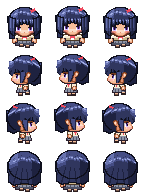
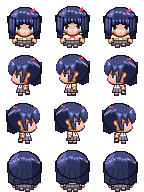
ちびキャラ：横向きの前髪を手本の作りに合わせる（前の縁、3本の束、束の間の肌、境目の線、光）
Claude-Session: https://claude.ai/code/session_017gxvkc2TW4xYgG5MuSL3N1

diff --git a/files.js b/files.js
@@ -2,7 +2,7 @@
 // マップなどを足したら scripts に1行足す（順番どおりに読み込む。main.js は最後）。
 // 版の番号 v は tools/stamp.py が書き換える。
 window.FILES = {
-  v: '20261127050834',
+  v: '20261127051514',
   scripts: [
     'engine/core.js',
     'engine/world.js',

diff --git a/tools/sprites/make_chibi.py b/tools/sprites/make_chibi.py
@@ -538,6 +538,46 @@ EAR_SIDE_GIRL = (-4, 23, [
 ])
 
 
+# 横向きの前髪（x −16〜+3、10〜26行）：手本を1ドットずつ測った作り。
+# H 光／L 明／M 中／D 暗（前の縁もこの色）／E 束の境目と毛先の線／1〜4 束の間からのぞく肌／_ 透明／. そのまま（目・耳）
+BANGS_SIDE = (-16, 10, [
+    '____DMMMMMMMMMMMMMMM',
+    '___DMLMMMMMMMMMMMMMM',
+    '__DMLMMMMMMMMMMMMMMM',
+    '__DMHLMMMMMMMMMMMMMM',
+    '_DMLHHMMMMMMMMMMMMMM',
+    '_DMLHHLMMMMMMMMMMMML',
+    'DMMMLLMDMLMMMMMMLLLM',
+    'DMMMLMMDMLLLLMLHHHLM',
+    'DMMMLMDDELHHMDMLHLMD',
+    'DMMMMMDDEMLLMEMLLMMD',
+    'DMMDMMDEEMMMDEDMLMME',
+    'EMMDMDE4EMMDE4EMMMDE',
+    'EDMDDDE3EDDE43EMMMDE',
+    '_EMDDE43EEE333EMMD..',
+    '_EDDDE3.....33EMDD.4',
+    '__EDE32......3EDD..3',
+    '___EE223....43EDD.43',
+])
+
+
+def bangs_side(im, c):
+    x0, y0, rows = BANGS_SIDE
+    if c['girl']:
+        t = [rgb(h) for h in HAIR_TONES]
+    else:
+        t = [rgb('#7d8396'), tuple(c['hairL'][:3]), tuple(c['hair1'][:3]), rgb('#2a2c36'), tuple(c['hair2'][:3])]
+    pal = {'H': t[0], 'L': t[1], 'M': t[2], 'D': t[3], 'E': t[4],
+           '1': c['skin1'], '2': c['skin2'], '3': c['skinS'], '4': c['handO']}
+    px = im.load()
+    for j, row in enumerate(rows):
+        for i, ch in enumerate(row):
+            X, Y = CX + x0 + i, y0 + j
+            if ch == '.':
+                continue
+            px[X, Y] = (0, 0, 0, 0) if ch == '_' else tuple(pal[ch][:3]) + (255,)
+
+
 def ear_side(im, c):
     girl = c['girl']
     x0, y0, rows = EAR_SIDE_GIRL if girl else EAR_SIDE_BOY
@@ -577,6 +617,7 @@ def frame(ch, d, step):
         hair_shade(up.im, c, side)
     if side == 'left' and Art is Pixel:
         ear_side(up.im, c)
+        bangs_side(up.im, c)
     im = a.im
     bob = 0 if step == 1 else (1 if Art is Pixel else round(0.6 * SS))
     im.alpha_composite(up.im, (0, bob))

diff --git a/CLAUDE.md b/CLAUDE.md
@@ -10,7 +10,7 @@
 - 校舎（廊下8枚と部屋の型）は `tools/gen_school.py` で生成する。生成した `data/maps/school_*.js` は直接直さず、スクリプトを直して作り直す。お話のイベントは `data/story.js` に `G.addEvents` で足す（`at: '扉の名前'` で位置を決められる）。見取り図の施設名のうち学校が特定されそうな名前は一般的な名前に変える
 - 参考にした市販ゲームのファイル（データ・画像・音・シナリオ）はこのリポジトリに入れない
 - タイル素材（ドット絵世界）は二次配布禁止。元のPNGは入れず、`tools/encode_tileset.py` で変換した `data/tilesets/*.js` だけを入れる。タイトル画面の著作権表示（system.js の credits）は消さない
-- キャラの歩行グラフィックは、いまはちびキャラ（手本：RPGツクールMVの標準キャラの比率、約1.5頭身、1コマ48×48px）。`tools/sprites/make_chibi.py` で描き、`img/chars/haru_chibi.png`・`img/chars/yui_chibi.png` に書き出す。塗りは手本と同じくっきりしたドット絵（48×48pxに直接描く。ベタ塗り、段をつけた影と光、部品ごとに1ドットの濃い輪郭、目は1ドットずつ形を決め、白い光はほぼ使わず外側の白目と上が濃い瞳で表す。髪のかたまりは小さめで額は高め、前髪には毛束の明るい筋を1本おきに入れて凹凸を出す。女子の髪は5段（光・明・中・暗・影）で束ごとに塗り分ける（make_chibi.py の hair_shade。頭頂はつむじから放射状の束で境目に暗い線、頭の丸みに沿って束ごとに上下へずれたギザギザの天使の輪（束の真ん中だけ光の色）、前髪は束ごとに上が明るく下ほど暗く真ん中に光の筋、横・後ろの髪は縦の束で左が明るく右と下が暗い。髪型が手本と違うので、ここは手本を写さず工夫したもの）。胴は肩が細く裾へ広がる八の字で、腕も外へ開く。前髪の毛先は目の上端に接するまで下ろし、真ん中の毛束だけ短くしてそのすき間から額をのぞかせる。前髪のすぐ下の肌には影（1段目は影色、2段目は中間色）。顔の横の髪で、目の外側の端からあごの近くまで顔を縁取る（男子は細く短め）。肌は桃色がかった色（白っぽくしない）。顔は上下と左右に4段（明・中間・影・濃い影）の明暗をドット単位でつけて立体感を出す（前髪の下は中間色→目の下から頬の段がいちばん明るい→その下は中間色→あごの段は影色。左右の端は内側へ濃い影→影→中間色、頬の段は影を1段多く）。目はまるごと見せる。やや上から見下ろしつつ足先まで全身を見せる（胴→スカート／ズボン→脚1ドット（女子は肌色）→靴2ドット（上が明るく下が暗い）。左右の足は幅5ドット（輪郭＋中身3）で間に1ドットのすき間。歩くと上げた足が1ドット上がる）。目は顔の大きさを変えずに大きく、5×5ドット（上まつげは3ドット幅で2段目が内側へ1ドットずれる斜め、黒目3ドット幅で上が濃く一番下が明るい、真ん中に縦2ドットの瞳孔、白目は外側3段・内側2段の両側）。目の間は7ドットで、目の外側は顔の縁（横の髪）に接する。見下ろす角度なので、肩はあごのすぐ下の行から始まり（上の面が明るく見える）、なで肩で下へ広がる。手は丸ではなくミトン形（幅4×高さ5、外側の輪郭は茶色・内側と下は濃い線で腕と胴の境目にもなる、明るい肌は真ん中上寄りに2×2、下の段の内側が欠けてその上に親指の付け根の点）。服の輪郭も濃い色。男子はシャツ6段・ベルト1段・ズボン3段（明るめの色、股の線）。女子のスカートは下半分に、地より濃い色の縦の折り目の線（中心をはさんで4ドット間隔の2本と、裾の両端寄り）。口は省いて鼻を1ドットの点で表す（頬のいちばん明るい段の最後の行、31行目）。幅の割合は、手を含めた体が頭の約8割。その中で胴は細く、肩と手を大きめにする）。横向き（左向き、前がマイナス）は、顔と胴の形を make_chibi.py の「行ごとの前端・後端の表」（FACE_SIDE・TORSO_SIDE_* など）で決める。手本を拡大して各行の端の位置を測り、その数字をそのまま表に書く（楕円や多角形で近似しない）。横顔は鼻筋がまっすぐ縦に続いたあと鼻で1ドット前に出て（鼻筋から下は顔より前に髪の輪郭を残さない）、その下で輪郭1ドット分の落差をつけてあごへ。あごは34行で終わり（下に出っ張らせない）、前の縁は輪郭線なしで濃い肌色、あごの下だけ濃い輪郭。目は make_chibi.py の EYE_SIDE の表で描く（手本を1ドットずつ測った作り：x −9〜−4、24〜29行。茶色の上まぶたの線が目尻まで続き、黒いまつげ、前の縁は黒、黒目は2ドット幅で上の段に瞳孔、白目は白と灰色の2列、目尻は濃い影の肌、いちばん下の段は明るい黒目。女子は目尻の列が髪にかかる）。目の前端は鼻筋から肌4ドット後ろ。耳のまわりは make_chibi.py の EAR_SIDE_BOY／EAR_SIDE_GIRL の表で描く（手本を1ドットずつ測った作り：縦長のアーモンド形の耳で、上の縁は茶色、前の縁は黒、真ん中がいちばん明るい。耳の前はもみあげの髪で、顔側の縁は暗い髪色。もみあげの下の縁は耳の前から左下へ下りる黒い斜めの線（女子はあごの近くまで垂れる）。耳の下はあご・首の肌が後ろへ続き、その後ろの髪は影の色）。いちばん前の前髪は額の前に垂れる。明暗は前の縁が濃い影、前寄りの頬が最も明るく、耳に近い後ろほど暗い。女子の後ろ髪はあごの高さまで。胴は上が細く（36行で9〜10ドット）前の縁を斜めに下へ広げ、スカート・ズボンの広さとの落差を出す。手は胴の中ほどより後ろに4×5ドット、立ち姿は前後の足が並んで見える。手本を使うときは、拡大して絵そのものを見比べるのに加えて、行ごとの端の位置（前端・後端・上下の終わり）を手本とうちで並べて書き出し、1行ずつずれを確かめてから直す（ざっくりした観察で済ませない）。端は肌の色だけでなく、髪や輪郭も含めた「透明でない最も外側の点」で測る（肌だけ測ると、顔の前にはみ出した髪の輪郭で鼻が平らになっているのを見落とす）。「イラストを縮めた柔らかい塗り」は4頭身のための試しで、ちびキャラには使わない。3頭身・4頭身は見送り。約4頭身の版（`make_trial.py`→`trial.png`、`make_haru.py`→`haru.png`）も残してある。手本の絵は写さない（比率と描き方だけ合わせる）。直したらスクリプトを動かして画像を作り直す
+- キャラの歩行グラフィックは、いまはちびキャラ（手本：RPGツクールMVの標準キャラの比率、約1.5頭身、1コマ48×48px）。`tools/sprites/make_chibi.py` で描き、`img/chars/haru_chibi.png`・`img/chars/yui_chibi.png` に書き出す。塗りは手本と同じくっきりしたドット絵（48×48pxに直接描く。ベタ塗り、段をつけた影と光、部品ごとに1ドットの濃い輪郭、目は1ドットずつ形を決め、白い光はほぼ使わず外側の白目と上が濃い瞳で表す。髪のかたまりは小さめで額は高め、前髪には毛束の明るい筋を1本おきに入れて凹凸を出す。女子の髪は5段（光・明・中・暗・影）で束ごとに塗り分ける（make_chibi.py の hair_shade。頭頂はつむじから放射状の束で境目に暗い線、頭の丸みに沿って束ごとに上下へずれたギザギザの天使の輪（束の真ん中だけ光の色）、前髪は束ごとに上が明るく下ほど暗く真ん中に光の筋、横・後ろの髪は縦の束で左が明るく右と下が暗い。髪型が手本と違うので、ここは手本を写さず工夫したもの）。胴は肩が細く裾へ広がる八の字で、腕も外へ開く。前髪の毛先は目の上端に接するまで下ろし、真ん中の毛束だけ短くしてそのすき間から額をのぞかせる。前髪のすぐ下の肌には影（1段目は影色、2段目は中間色）。顔の横の髪で、目の外側の端からあごの近くまで顔を縁取る（男子は細く短め）。肌は桃色がかった色（白っぽくしない）。顔は上下と左右に4段（明・中間・影・濃い影）の明暗をドット単位でつけて立体感を出す（前髪の下は中間色→目の下から頬の段がいちばん明るい→その下は中間色→あごの段は影色。左右の端は内側へ濃い影→影→中間色、頬の段は影を1段多く）。目はまるごと見せる。やや上から見下ろしつつ足先まで全身を見せる（胴→スカート／ズボン→脚1ドット（女子は肌色）→靴2ドット（上が明るく下が暗い）。左右の足は幅5ドット（輪郭＋中身3）で間に1ドットのすき間。歩くと上げた足が1ドット上がる）。目は顔の大きさを変えずに大きく、5×5ドット（上まつげは3ドット幅で2段目が内側へ1ドットずれる斜め、黒目3ドット幅で上が濃く一番下が明るい、真ん中に縦2ドットの瞳孔、白目は外側3段・内側2段の両側）。目の間は7ドットで、目の外側は顔の縁（横の髪）に接する。見下ろす角度なので、肩はあごのすぐ下の行から始まり（上の面が明るく見える）、なで肩で下へ広がる。手は丸ではなくミトン形（幅4×高さ5、外側の輪郭は茶色・内側と下は濃い線で腕と胴の境目にもなる、明るい肌は真ん中上寄りに2×2、下の段の内側が欠けてその上に親指の付け根の点）。服の輪郭も濃い色。男子はシャツ6段・ベルト1段・ズボン3段（明るめの色、股の線）。女子のスカートは下半分に、地より濃い色の縦の折り目の線（中心をはさんで4ドット間隔の2本と、裾の両端寄り）。口は省いて鼻を1ドットの点で表す（頬のいちばん明るい段の最後の行、31行目）。幅の割合は、手を含めた体が頭の約8割。その中で胴は細く、肩と手を大きめにする）。横向き（左向き、前がマイナス）は、顔と胴の形を make_chibi.py の「行ごとの前端・後端の表」（FACE_SIDE・TORSO_SIDE_* など）で決める。手本を拡大して各行の端の位置を測り、その数字をそのまま表に書く（楕円や多角形で近似しない）。横顔は鼻筋がまっすぐ縦に続いたあと鼻で1ドット前に出て（鼻筋から下は顔より前に髪の輪郭を残さない）、その下で輪郭1ドット分の落差をつけてあごへ。あごは34行で終わり（下に出っ張らせない）、前の縁は輪郭線なしで濃い肌色、あごの下だけ濃い輪郭。目は make_chibi.py の EYE_SIDE の表で描く（手本を1ドットずつ測った作り：x −9〜−4、24〜29行。茶色の上まぶたの線が目尻まで続き、黒いまつげ、前の縁は黒、黒目は2ドット幅で上の段に瞳孔、白目は白と灰色の2列、目尻は濃い影の肌、いちばん下の段は明るい黒目。女子は目尻の列が髪にかかる）。目の前端は鼻筋から肌4ドット後ろ。耳のまわりは make_chibi.py の EAR_SIDE_BOY／EAR_SIDE_GIRL の表で描く（手本を1ドットずつ測った作り：縦長のアーモンド形の耳で、上の縁は茶色、前の縁は黒、真ん中がいちばん明るい。耳の前はもみあげの髪で、顔側の縁は暗い髪色。もみあげの下の縁は耳の前から左下へ下りる黒い斜めの線（女子はあごの近くまで垂れる）。耳の下はあご・首の肌が後ろへ続き、その後ろの髪は影の色）。前髪は make_chibi.py の BANGS_SIDE の表で描く（手本を1ドットずつ測った作り：x −16〜+3、10〜26行。前の縁は黒ではなく暗い髪色で、上から前へふくらみ、いちばん前の束は26行まで垂れて顔の前を覆う。前・真ん中・耳の前の3本の束に分かれ、束の間から21〜24行で肌がのぞく。18行から下は束の境目に暗い線、光は前上と後ろ寄りの2か所。色は5段に置き換える）。明暗は前の縁が濃い影、前寄りの頬が最も明るく、耳に近い後ろほど暗い。女子の後ろ髪はあごの高さまで。胴は上が細く（36行で9〜10ドット）前の縁を斜めに下へ広げ、スカート・ズボンの広さとの落差を出す。手は胴の中ほどより後ろに4×5ドット、立ち姿は前後の足が並んで見える。手本を使うときは、拡大して絵そのものを見比べるのに加えて、行ごとの端の位置（前端・後端・上下の終わり）を手本とうちで並べて書き出し、1行ずつずれを確かめてから直す（ざっくりした観察で済ませない）。端は肌の色だけでなく、髪や輪郭も含めた「透明でない最も外側の点」で測る（肌だけ測ると、顔の前にはみ出した髪の輪郭で鼻が平らになっているのを見落とす）。「イラストを縮めた柔らかい塗り」は4頭身のための試しで、ちびキャラには使わない。3頭身・4頭身は見送り。約4頭身の版（`make_trial.py`→`trial.png`、`make_haru.py`→`haru.png`）も残してある。手本の絵は写さない（比率と描き方だけ合わせる）。直したらスクリプトを動かして画像を作り直す
 - 字体：ゲームの文字は M+ 1m（`fonts/mplus-1m-regular.ttf`、M+ FONTS は自由に使用・配布できる）。`G.font()` と css/style.css で指定している。収録外の文字（♪など）は端末のフォントになる
 - 公開は gh-pages ブランチから。更新したら、まず `python3 tools/stamp.py`（files.js の版の番号を新しくする。ブラウザが古いファイルを使い回して新旧が混ざるのを防ぐ）、コミットして `git push origin main main:gh-pages` で両方に送る。そのあと `gh api repos/nzanke/game-test/actions/runs` で「pages build and deployment」が新しいコミットで completed success になったのを確かめてから報告する。ビルドが走らないときは空のコミットを送り直す（Pages 設定のAPIは作業環境から使えない）
 - やりとりと説明は日本語で
